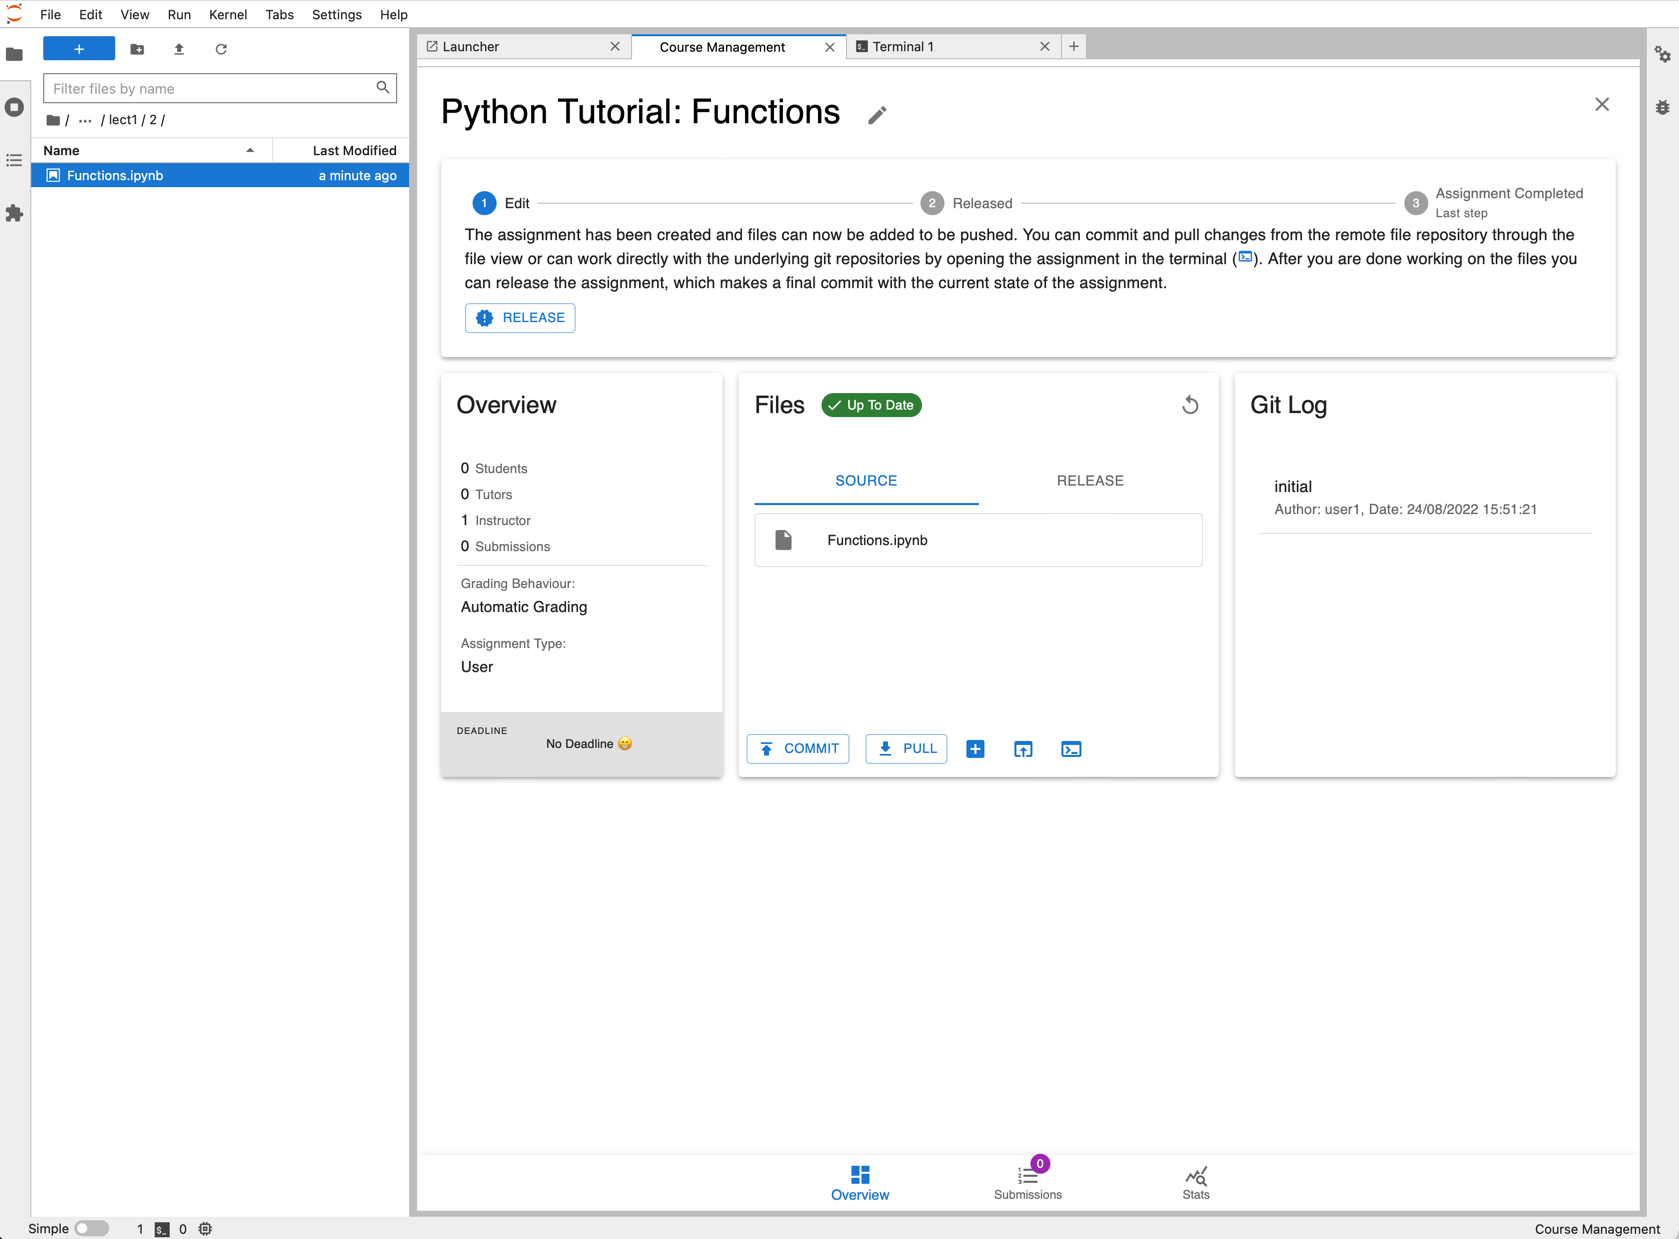
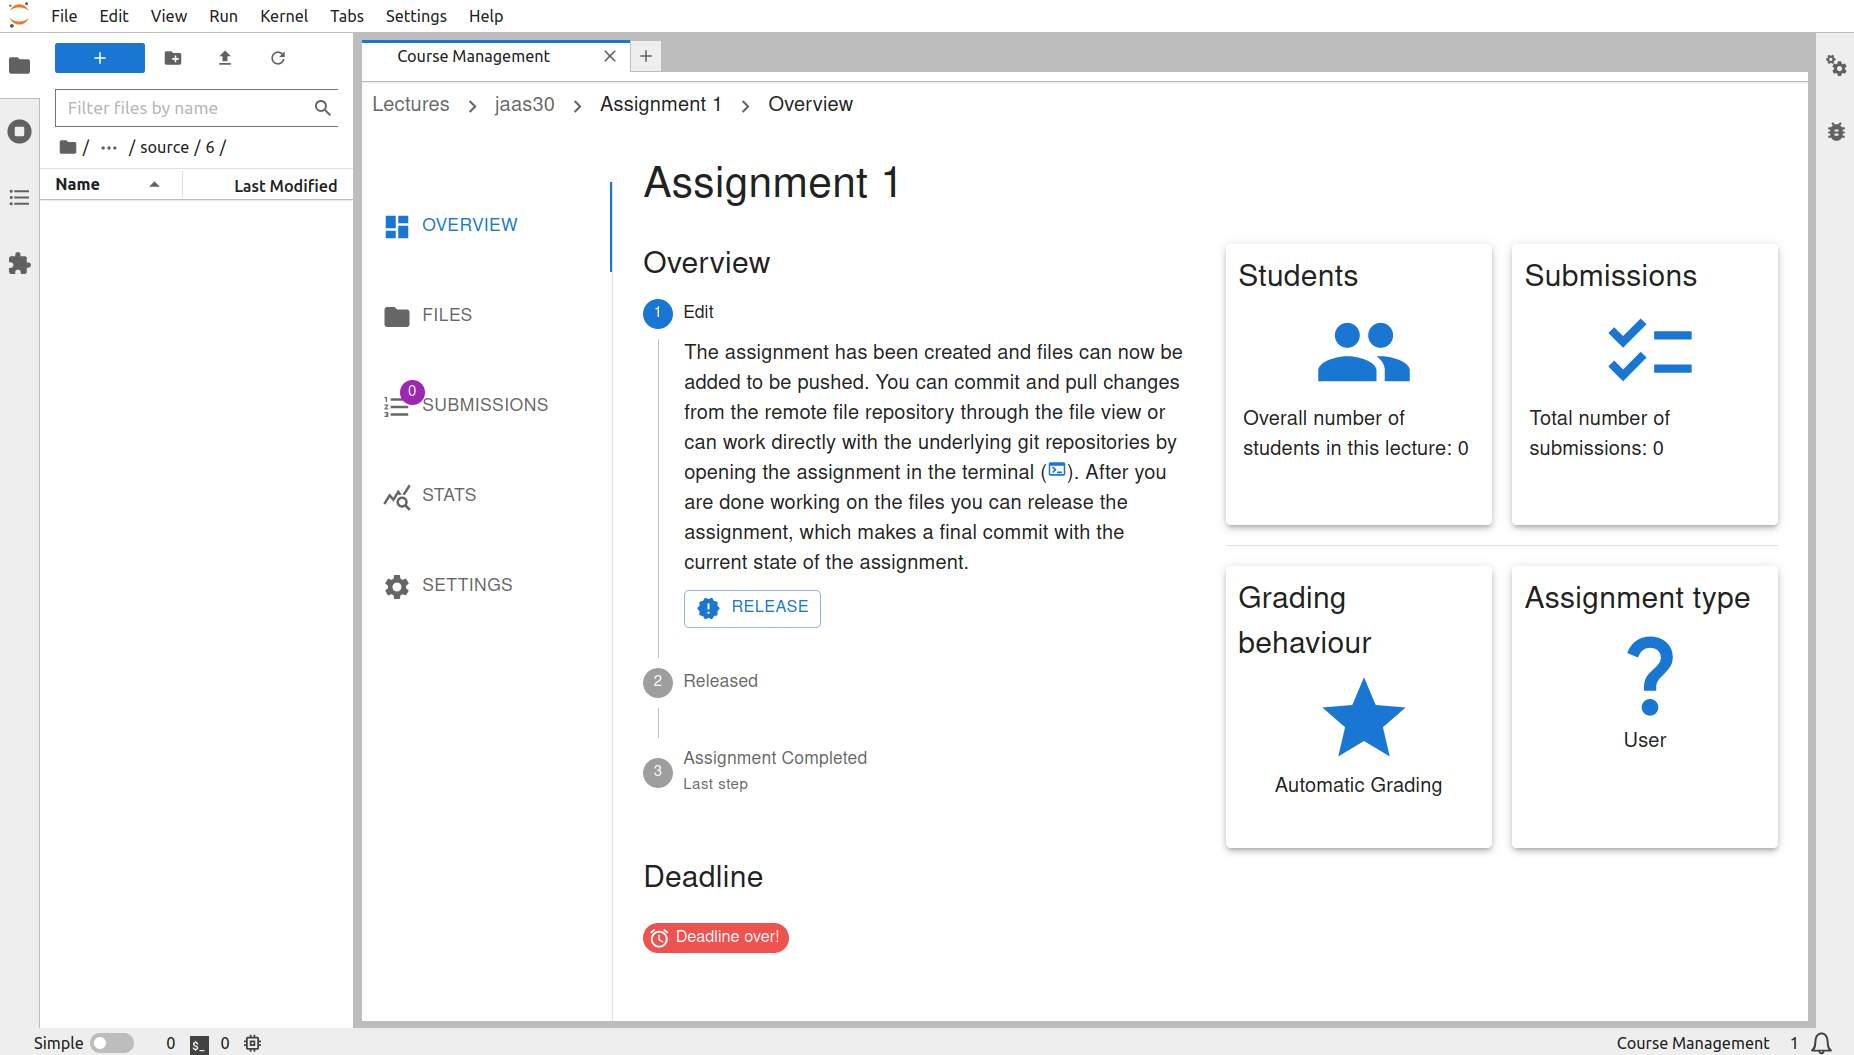
Updated User Guide and Index Page, Updated GIF on general README.rst for Graderservice

diff --git a/docs/source/user_guide.rst b/docs/source/user_guide.rst
@@ -19,18 +19,30 @@ a tutor in one lecture.
     You can find how to enable extensions `here <https://jupyterlab.readthedocs.io/en/stable/user/extensions.html#managing-extensions-using-the-extension-manager>`_.
     Another reason might be that the grader service is not running. However, there will be a warning if this is the case.
 
+One Instance Hub vs. Multiple Instances Hub
+============================================
+In winter semester 2023 we are introducing One Instance Hub, which allows you to have all of your lectures in one place and easily manage them. 
+If you are using Jupyter as a Service for multiple lectures, they are now are shown in one list. In each lecture 
+you can manage as many assignments as needed and this process and navigation between assignments has been made
+easier. You can also switch between completed and current lectures and take a look at assignments that were published in completed lectures. 
+Students who are enrolled in multiple lectures which are using Jupyter as a Service see all of their lecturers
+and assignments in one place without a need to follow a link provided in each TUWEL course which uese Jupyter as a Service. Once they are logged in
+Jupyterhub they see all of their lectures and assignments released in those lectures.
 
 Create Your First Assignment
 =============================
 Before students can access the notebooks, an assignment must be created.
-To access this feature, open the course management dashboard:
+To access this feature, open the course management dashboard and navigate to desired lecture:
 
-.. image:: _static/assets/images/course_management.png
-    :alt: course management dashboard
+.. image:: _static/assets/images/courses.png
+    :alt: course management list
 
-The course management dashboard lists all lectures and their assignments if the current user is an instructor.
-By pressing on the "+" field below the lecture name, instructors can
-add new assignments to the lecture:
+| The course management table lists all assignments in the chosen lecture and lets you easily manage them:
+
+.. image:: _static/assets/images/assignments.png
+    :alt: assignment list
+
+| By pressing on the "+ NEW" button on top of the assignment list, instructors can add new assignments to the lecture:
 
 .. image:: _static/assets/images/add_assignment.png
     :alt: add assignment dialog
@@ -53,15 +65,13 @@ To view these directories, use the files card in the overview window of the assi
 By switching between source and release file viewer, the extension will convert the source notebooks to their release versions.
 
 .. image:: _static/assets/images/file_view.png
-    :width: 300
     :alt: file view
-    :align: center
 
 .. note::
     Just the source notebooks and files should be edited! Changes to files in the release directory will be lost when generating the files again.
 
 The grader service and labextension use git to support the collaborative creation of assignments. Also, it provides a simple way to distribute the files to the students.
-Notebooks can be added by either using the "Create a new notebook" button or by copying files directly into the correct source directory via the file browser.
+Notebooks can be added by either using the "Create a new notebook" button or by copying files directly into the correct source directory via the file browser on left-hand side.
 
 The source directory can also be revealed in the JupyterLab file browser or be opened in a terminal window.
 
@@ -76,8 +86,7 @@ As mentioned previously, we can either add a notebook from the file view or crea
     :alt: creation mode
     :align: center
 
-For notebooks which are in the source directory, a creation mode can be enabled in the notebook toolbar.
-It adds widgets around notebook cells that can be used to control the function of the code cell.
+| For notebooks which are in the source directory, a creation mode can be enabled in the notebook toolbar. It adds widgets around notebook cells that can be used to control the function of the code cell.
 
 Grader Cell Types:
 
@@ -120,22 +129,20 @@ Grader Cell Types:
         :alt: manual answer
         :align: center
 
-- Manual graded task
-    This cell type represents an abstract task description.
-    It is intended for a general description of what should be done and students are free to implement the task however they see fit where the answer could span several cells.
-    The task can only be given in a markdown cell.
 
 Assignment Lifecycle
 =====================================
 
 .. image:: _static/assets/images/assignment_status.png
+    :width: 400
     :alt: assignment status
+    :align: center
 
-An assignment can have 3 states that can be switched between and represent the lifecycle of the assignment.
+| An assignment can have 3 states that can be switched between and represent the lifecycle of the assignment.
 
 - Edit
     When first created, the assignment is in "Edit mode", where the assignment files can be added and edited.
-    In this stage, the assignment is not visible to students. However, when an instructor opens the student window, it will be displayed to them.
+    In this stage, the assignment is not visible to students. However, when an instructor opens the student view ("Assignments" card in launcher), it will be displayed to them.
 - Released
     The assignment is released to students and the students can work on it.
     The released files are identical to the files in the release directory at the time of the release.
@@ -154,12 +161,14 @@ An assignment can have 3 states that can be switched between and represent the l
 Grading Assignments
 =====================================
 
-Student submissions can be graded when switching to the Submissions tab at the bottom of the overview window.
+To grade student submissions navigate to submissions tab:
 
 .. image:: _static/assets/images/submission_grading.png
     :alt: submission grading
 
-Submissions can be selected from the list and actions can be performed on the submissions.
+
+| Submissions can be selected from the list and actions can be performed on the submissions.
+
 Grader Service supports batch auto-grading and batch feedback generation of several submissions.
 Naturally, submissions have to be manually graded individually.
 
@@ -190,44 +199,56 @@ It specifies the action taken when a user submits an assignment.
 
 
 Student Guide
-=====================================
+===============
 
-Students are presented with a list of assignments for them to solve.
-The card of an assignment provides an overview of the assignment, such as the number of submissions, whether feedback for one submission is available and the maximum points reached in a submission.
-It also shows a countdown of the deadline.
+When Juypterhub is launched students see only the Assignments card:
 
-.. image:: _static/assets/images/student_overview.png
-    :alt: student overview
-
-When clicking on an assignment card, students are presented with a detailed view of the assignment that lets them work on the assignment and make submissions.
+.. image:: _static/assets/images/student_launcher.png
+    :alt: student launcher
 
 
-.. image:: _static/assets/images/student_view.png
+| Studnets are presented with a list of courses they are enrolled in. They can see completed lectures from previous semesters as well and take a look at their old assignments:
+
+.. image:: _static/assets/images/student_lecture_list.png
+    :alt: student lecture list 
+
+| Each lecture provides its own assignment table. Each table cell represents an assignment and its brief overview:
+
+.. image:: _static/assets/gifs/student_assignment_table.gif
+    :alt: assignment overview for studnets
+
+| If a new assignment was released for students, students have to firstly pull it from remote repository in order to get assignment files they can work on. Afterwards an "Edit" instead of "Download" icon will be shown in the table cell.
+| Each table cell shows name of assignment, wheter feedback for submission is available and maximum points reached in the submission. Each table cell also shows a countdown of the deadline. Once deadline has been reached, students can no more submit the assignment files.
+
+
+When clicking on an assignment table cell or "Detail View" button, students are presented with a detailed view of the assignment that lets them work on the assignment and make submissions.
+
+
+.. image:: _static/assets/images/student_detail_view.png
     :alt: student view
 
-The status bar is supposed to guide the students through the stages, from working on the assignment to viewing the feedback they received.
+| The status bar is supposed to guide the students through the stages, from working on the assignment to viewing the feedback they received.
 
 The files in the assignment are displayed in a list and can be opened from there. The submit button submits the current state of the assignment.
 To reset the assignment to its original state, students can use the reset button.
 No progress is lost when resetting the assignment, the release state is just a new commit in the underlying git repository.
 
-Submissions are shown in the submission list. If a submission has feedback available, it will be displayed in this submission list and can be viewed from there.
+Submissions are shown in the submission list. On top of the submission list is a chip that tells the students wheter there is a limited number of submissions they are allowed to make until the deadline has been reached.
+If a submission has feedback available, it will be displayed in this submission list and can be viewed from there.
 
 .. image:: _static/assets/images/student_view_feedback.png
     :alt: student view feedback
 
-Once the student submissions have been graded and feedback is available we can see it in the submission list and can open the feedback view.
-It will present an overview of the score reached and a list of detailed feedback for each graded notebook.
+| Once the student submissions have been graded and feedback is available we can see it in the submission list and can open the feedback view. It will present an overview of the score reached and a list of detailed feedback for each graded notebook.
 
-.. image:: _static/assets/images/feedback_view.png
+.. image:: _static/assets/images/student_feedback_window.png
     :alt: feedback view
 
-The detailed feedback is a HTML file and shows the student answers along with the score and comments from instructors.
+| The detailed feedback is a HTML file and shows the student answers along with the score and comments from instructors.
 
 .. image:: _static/assets/images/feedback_html.png
     :alt: feedback html
 
-.. note::
-    You may have to click the "Trust HTML" button to view the feedback file.
+
 
 

diff --git a/docs/source/index.rst b/docs/source/index.rst
@@ -8,7 +8,7 @@ Grader Service Documentation
 
 Grader Service offers lecturers and students a well integrated teaching environment for data science, machine learning and programming classes.
 
-.. image:: ./_static/assets/gifs/release2_small.gif
+.. image:: ./_static/assets/gifs/labextension_update.gif
 
 Contents
 ==========
@@ -33,8 +33,9 @@ The application consists of three main components.
 
 .. image:: ./_static/assets/images/arch.png
 
+
 Indices and tables
-###################
+===================
 
 * :ref:`genindex`
 * :ref:`modindex`
